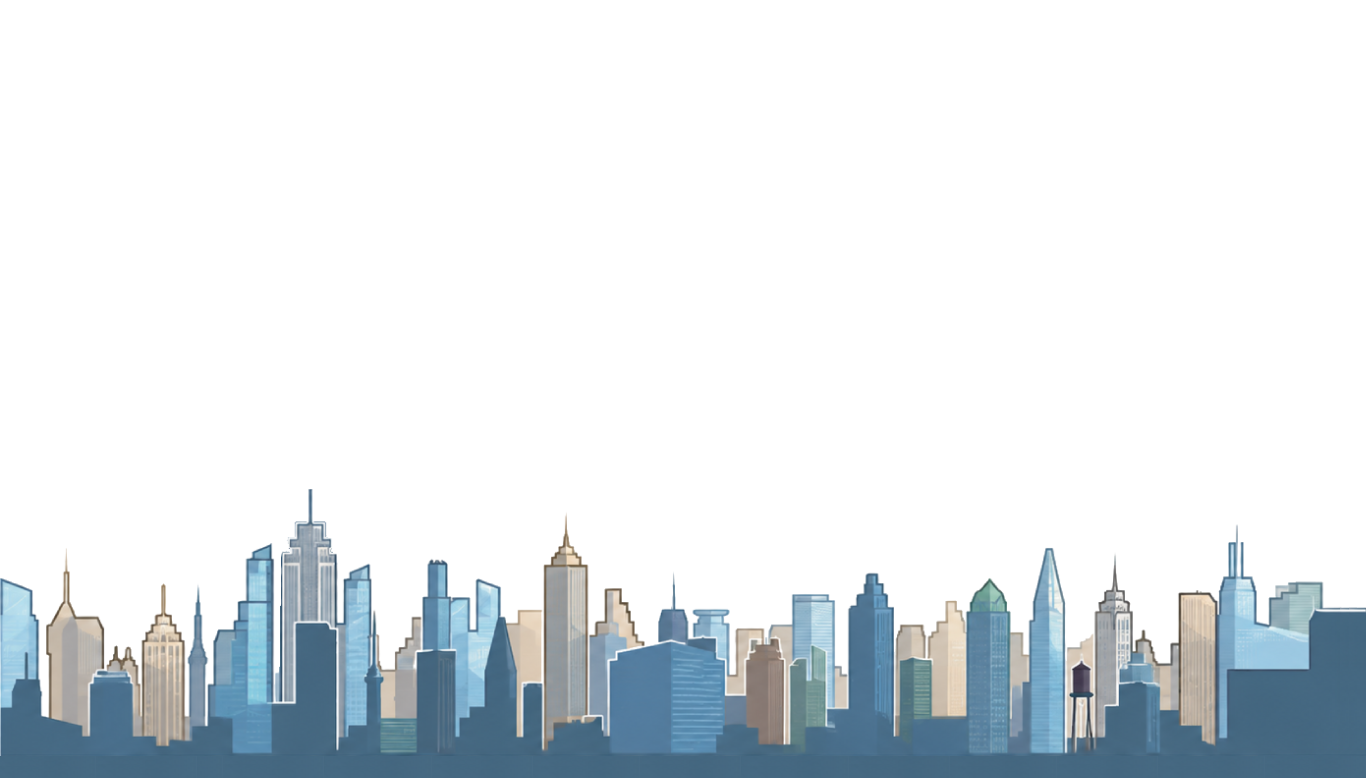
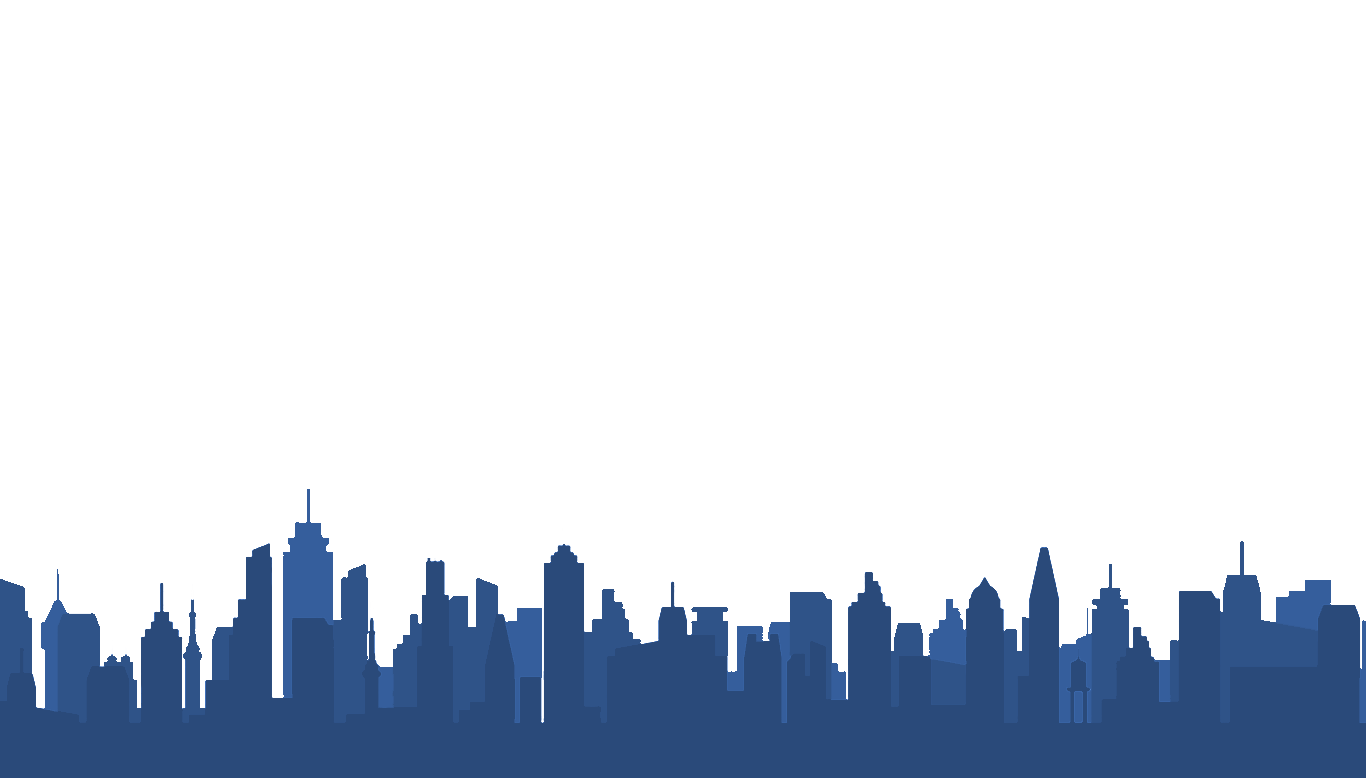
Light mode: navy blue content gradient, bluish GIF filter, updated CSS variables

Changed region(s): [[0.0, 0.6478, 1.0, 1.0]]

diff --git a/src/index.css b/src/index.css
@@ -57,34 +57,34 @@
 .light {
   color-scheme: light;
 
-  --text-primary: rgba(24, 24, 35, 0.87);
-  --text-secondary: rgba(35, 35, 50, 0.78);
-  --text-heading: #1a1a2e;
-  --text-muted: rgba(40, 40, 55, 0.55);
+  --text-primary: rgba(255, 255, 255, 0.87);
+  --text-secondary: rgba(255, 255, 255, 0.75);
+  --text-heading: #ffffff;
+  --text-muted: rgba(255, 255, 255, 0.5);
 
-  --btn-bg: rgba(0, 0, 0, 0.06);
-  --btn-bg-hover: rgba(0, 0, 0, 0.12);
-  --btn-border: rgba(0, 0, 0, 0.18);
+  --btn-bg: rgba(255, 255, 255, 0.08);
+  --btn-bg-hover: rgba(255, 255, 255, 0.16);
+  --btn-border: rgba(255, 255, 255, 0.15);
 
-  --social-bg: rgba(0, 0, 0, 0.06);
-  --social-bg-hover: rgba(0, 0, 0, 0.12);
-  --social-glow: rgba(0, 0, 0, 0.06);
-  --social-glow-hover: rgba(0, 0, 0, 0.14);
+  --social-bg: rgba(255, 255, 255, 0.06);
+  --social-bg-hover: rgba(255, 255, 255, 0.14);
+  --social-glow: rgba(255, 255, 255, 0.08);
+  --social-glow-hover: rgba(255, 255, 255, 0.18);
 
-  --card-bg: rgba(255, 255, 255, 0.78);
-  --card-bg-hover: rgba(255, 255, 255, 0.92);
-  --card-border: rgba(0, 0, 0, 0.08);
-  --card-border-top: rgba(100, 130, 170, 0.22);
-  --card-shadow: 0 4px 16px rgba(0, 0, 0, 0.05),
-    inset 0 1px 0 rgba(255, 255, 255, 0.5);
-  --card-shadow-hover: 0 12px 48px rgba(0, 0, 0, 0.07),
-    0 0 32px rgba(80, 120, 170, 0.05),
-    inset 0 1px 0 rgba(255, 255, 255, 0.6);
+  --card-bg: rgba(25, 45, 80, 0.8);
+  --card-bg-hover: rgba(35, 55, 95, 0.88);
+  --card-border: rgba(255, 255, 255, 0.06);
+  --card-border-top: rgba(120, 160, 210, 0.2);
+  --card-shadow: 0 4px 16px rgba(0, 0, 0, 0.3),
+    inset 0 1px 0 rgba(255, 255, 255, 0.04);
+  --card-shadow-hover: 0 12px 48px rgba(0, 0, 0, 0.35),
+    0 0 32px rgba(60, 100, 160, 0.06),
+    inset 0 1px 0 rgba(255, 255, 255, 0.06);
 
-  --photo-shadow: 0 0 24px rgba(0, 0, 0, 0.06);
-  --photo-shadow-hover: 0 0 40px rgba(0, 0, 0, 0.12);
+  --photo-shadow: 0 0 24px rgba(0, 0, 0, 0.15);
+  --photo-shadow-hover: 0 0 40px rgba(0, 0, 0, 0.25);
 
-  --logo-glow: drop-shadow(0 0 12px rgba(0, 0, 0, 0.12));
+  --logo-glow: drop-shadow(0 0 12px rgba(255, 255, 255, 0.2));
 
   --star-opacity: 0;
 }
@@ -129,10 +129,10 @@ body::before {
   padding-top: 2rem;
   background: linear-gradient(
     180deg,
-    #e8e4db 0%,
-    #e0dcd6 30%,
-    #d8d4ce 60%,
-    #d0ccc4 100%
+    #2a4a7a 0%,
+    #223e6e 30%,
+    #1a325c 60%,
+    #12264a 100%
   );
 }
 

diff --git a/src/components/css/hero.css b/src/components/css/hero.css
@@ -34,6 +34,7 @@
   width: 100vw;
   animation: moveAcrossScreen 45s linear infinite;
   pointer-events: none;
+  transition: filter 1.4s ease-in-out;
 }
 
 .zombie {
@@ -44,6 +45,7 @@
   width: 100vw;
   animation: moveAcrossScreenZombie 85s linear infinite;
   pointer-events: none;
+  transition: filter 1.4s ease-in-out;
 }
 
 .zombieStop {
@@ -95,6 +97,7 @@
   width: 100vw;
   animation: moveAcrossScreenCar 20s linear infinite;
   pointer-events: none;
+  transition: filter 1.4s ease-in-out;
 }
 
 .moto {
@@ -105,6 +108,7 @@
   width: 100vw;
   animation: moveAcrossScreenMoto 15s linear infinite;
   pointer-events: none;
+  transition: filter 1.4s ease-in-out;
 }
 
 .runner {
@@ -115,6 +119,7 @@
   width: 100vw;
   animation: moveAcrossScreenRunner 35s linear infinite;
   pointer-events: none;
+  transition: filter 1.4s ease-in-out;
 }
 
 .hiddenLight {
@@ -243,6 +248,13 @@
   .puntito {
     left: 2vw;
   }
+}
+
+.light .walker,
+.light .runner,
+.light .moto,
+.light .car {
+  filter: invert(1) brightness(0.4) sepia(1) hue-rotate(190deg) saturate(1.2) brightness(1.1);
 }
 
 /* @media (max-width: 600px) {